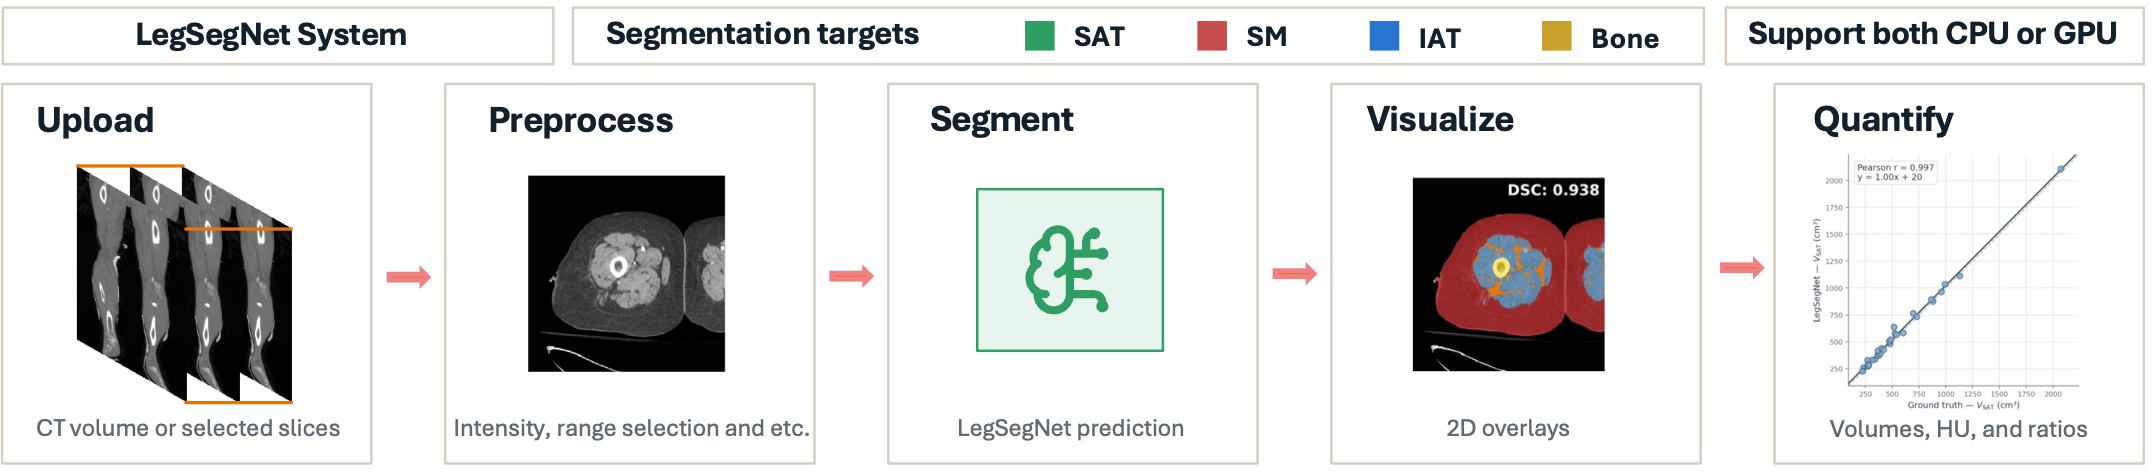
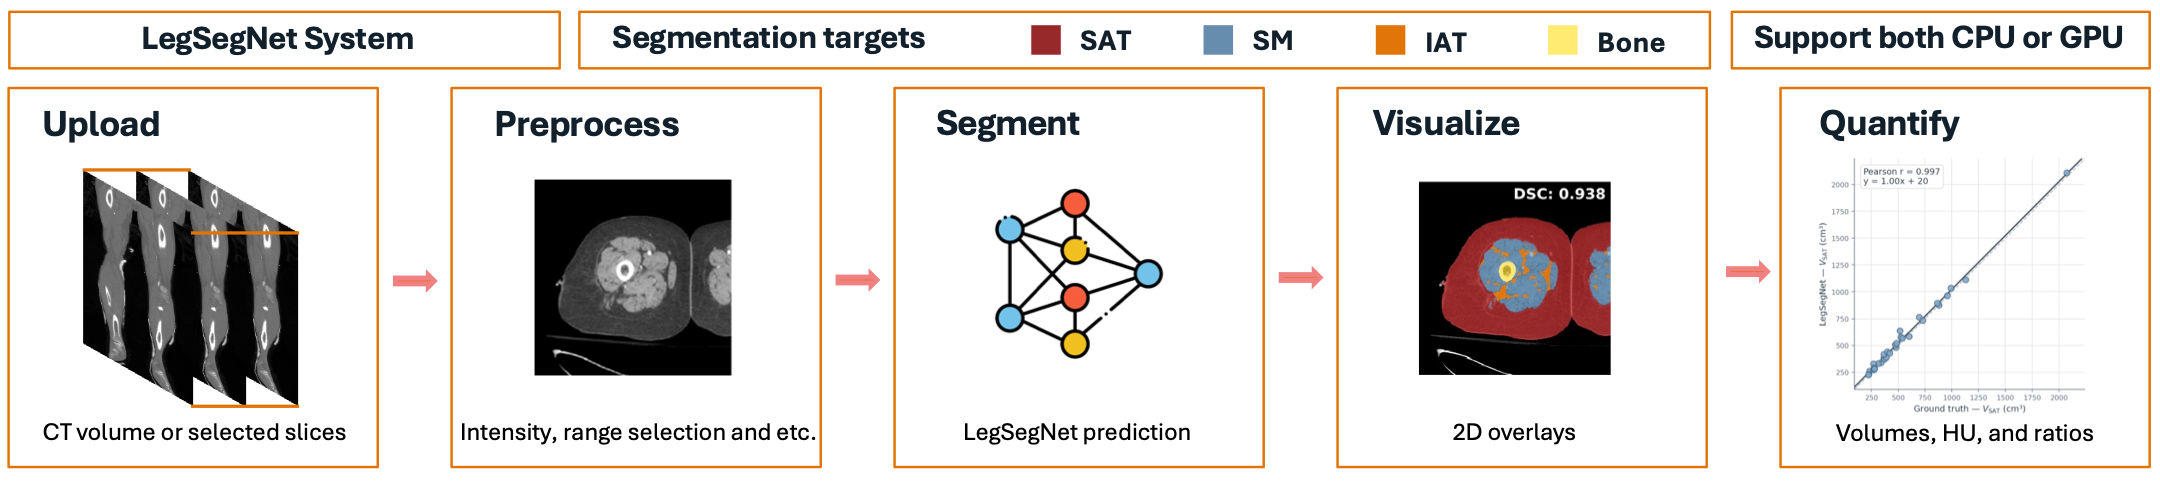
update

diff --git a/inference.py b/inference.py
@@ -24,51 +24,6 @@ CLASS_COLOR_DICT = {
 ## Input your checkpoint folder here.
 MODEL_FOLDER = "   "
 
-def hu_to_uint8(img_slice):
-    x = np.clip(img_slice.astype(np.float32), HU_LO, HU_HI)
-    x = (x - HU_LO) / (HU_HI - HU_LO)
-    x = x * 255.0
-    return x.astype(np.uint8)
-
-
-def color_overlay(img, mask, alpha=0.55):
-    img_3c = np.stack([img] * 3, axis=-1).astype(np.float32)
-    img_overlay = img_3c.copy()
-    for c, rgb in CLASS_COLOR_DICT.items():
-        sel = (mask == c)
-        if sel.any():
-            img_overlay[sel] = (1 - alpha) * img_3c[sel] + alpha * np.array(rgb)
-    return img_overlay.clip(0, 255).astype(np.uint8)
-
-
-def _patch_plans_check(plans_path):
-    plans = json.loads(plans_path.read_text())
-    changed = False
-    for cfg in plans.get("configurations", {}).values():
-        sp = cfg.get("spacing")
-        if sp and any(s is None for s in sp):
-            cfg["spacing"] = [999.0 if s is None else s for s in sp]
-            changed = True
-    if changed:
-        plans_path.write_text(json.dumps(plans, indent=4))
-
-
-def load_nifti_volume(nifti_path):
-    img = nib.load(str(nifti_path))
-
-    vol = img.get_fdata().astype(np.float32)
-    codes = nib.aff2axcodes(img.affine)
-    z_axis = next(i for i, c in enumerate(codes) if c in ("S", "I"))
-    vol = np.moveaxis(vol, z_axis, 0).astype(np.float32)
-    sp = np.linalg.norm(img.affine[:3, :3], axis=0)
-    spacing = (
-        float(sp[z_axis]),
-        float(sp[(z_axis + 1) % 3]),
-        float(sp[(z_axis + 2) % 3]),
-    )
-    return vol, codes, spacing
-
-
 class LegCTSegmenter:
     def __init__(
             self, 
@@ -187,7 +142,47 @@ class LegCTSegmenter:
                 progress_cb((i + 1) / Z_sel, desc=f"Slice {i+1}/{Z_sel}")
     
         return imgs, masks, hus
+    
+def hu_to_uint8(img_slice):
+    x = np.clip(img_slice.astype(np.float32), HU_LO, HU_HI)
+    x = (x - HU_LO) / (HU_HI - HU_LO)
+    x = x * 255.0
+    return x.astype(np.uint8)
 
+def color_overlay(img, mask, alpha=0.55):
+    img_3c = np.stack([img] * 3, axis=-1).astype(np.float32)
+    img_overlay = img_3c.copy()
+    for c, rgb in CLASS_COLOR_DICT.items():
+        sel = (mask == c)
+        if sel.any():
+            img_overlay[sel] = (1 - alpha) * img_3c[sel] + alpha * np.array(rgb)
+    return img_overlay.clip(0, 255).astype(np.uint8)
+
+def _patch_plans_check(plans_path):
+    plans = json.loads(plans_path.read_text())
+    changed = False
+    for cfg in plans.get("configurations", {}).values():
+        sp = cfg.get("spacing")
+        if sp and any(s is None for s in sp):
+            cfg["spacing"] = [999.0 if s is None else s for s in sp]
+            changed = True
+    if changed:
+        plans_path.write_text(json.dumps(plans, indent=4))
+
+def load_nifti_volume(nifti_path):
+    img = nib.load(str(nifti_path))
+
+    vol = img.get_fdata().astype(np.float32)
+    codes = nib.aff2axcodes(img.affine)
+    z_axis = next(i for i, c in enumerate(codes) if c in ("S", "I"))
+    vol = np.moveaxis(vol, z_axis, 0).astype(np.float32)
+    sp = np.linalg.norm(img.affine[:3, :3], axis=0)
+    spacing = (
+        float(sp[z_axis]),
+        float(sp[(z_axis + 1) % 3]),
+        float(sp[(z_axis + 2) % 3]),
+    )
+    return vol, codes, spacing
 
 def compute_body_composition(masks, ct_hu, sx_mm, sy_mm, dz_mm):
     area_mm2 = sx_mm * sy_mm
@@ -211,7 +206,6 @@ def compute_body_composition(masks, ct_hu, sx_mm, sy_mm, dz_mm):
     out["mu_Fat"]    = (sum_per[1] + sum_per[3]) / n_fat if n_fat else float("nan")
 
     return out
-
 
 def make_side_view(raw_vol, projection="max"):
     ## Normalize raw image

diff --git a/app.py b/app.py
@@ -47,7 +47,6 @@ def predict_png(img_slice):
     cv2.imwrite(str(mask_path), mask)
     return overlay, str(mask_path), summary
 
-
 def draw_marker_lines(img_slice, y_pos):
     out = img_slice.copy()
     line_color = (41, 128, 185)
@@ -61,13 +60,11 @@ def draw_marker_lines(img_slice, y_pos):
 
     return out
 
-
 def disp_to_z(y, state):
     z = int(round(y / state["z_to_y"]))
     if state["flipped"]:
         z = state["Z"] - 1 - z
     return max(0, min(state["Z"] - 1, z))
-
 
 def upload_nifti(file, state):
     state = {}
@@ -100,6 +97,11 @@ def upload_nifti(file, state):
     ## Return to match the Gradio pipeline
     return disp_rgb, [], info, "—", "—", state
 
+def reset_clicks(state):
+    if not state or state.get("side_disp_rgb") is None:
+        return None, [], "—", "—"
+    
+    return state["side_disp_rgb"].copy(), [], "—", "—"
 
 ## Clicks to draw line to select the range to predict
 def click_side(clicks, state, event: gr.SelectData):
@@ -117,14 +119,6 @@ def click_side(clicks, state, event: gr.SelectData):
     z_hi_text = str(zs[-1]) if len(zs) >= 2 else "—"
 
     return out, clicks, z_lo_text, z_hi_text
-
-
-def reset_clicks(state):
-    if not state or state.get("side_disp_rgb") is None:
-        return None, [], "—", "—"
-    
-    return state["side_disp_rgb"].copy(), [], "—", "—"
-
 
 def run_volume(clicks, state, progress=gr.Progress(track_tqdm=False)):
     if not state or state.get("vol_hu") is None:
@@ -223,7 +217,6 @@ def device_banner_html():
         </div>
         """
 
-
 def build_ui():
     with gr.Blocks(title="LegSegNet") as demo:
         gr.Markdown(
@@ -321,7 +314,6 @@ def build_ui():
             stop_btn.click(fn=None, cancels=[run_event])
             
     return demo
-
 
 if __name__ == "__main__":
     port = int(os.environ.get("GRADIO_SERVER_PORT", 7860))

diff --git a/README.md b/README.md
@@ -1,36 +1,32 @@
 # LegSegNet
 
-LegSegNet is a local Gradio app for lower-extremity CT tissue segmentation and body composition analysis. It uses a pretrained 2D nnU-Net model to segment four tissue compartments:
+LegSegNet is a Gradio app for lower extremity CT tissue segmentation and body composition analysis. 
+
+It uses a pretrained 2D nnU-Net model to segment four tissue compartments:
 
 - **SAT**: subcutaneous adipose tissue
 - **SM**: skeletal muscle
 - **IAT**: inter/intramuscular adipose tissue
 - **Bone**
 
-LegSegNet is designed for a practical workflow: upload a CT slice or NIfTI volume, run segmentation locally, and export masks and quantitative tissue measurements.
-
-## System Overview
-
-The full LegSegNet workflow takes lower extremity CT scans as input, predicts tissue masks, and produces visual and quantitative outputs for downstream analysis.
+LegSegNet is designed for a practical system: upload a CT slice or NIfTI volume, run segmentation, and export masks and quantitative tissue measurements.
 
 ![System overview PDF](assets/pipeline.png)
-
-## 3D Construction
-
-The 3D view shows volumetric reconstruction of LegSegNet predictions. The system overview summarizes how the app connects CT input, segmentation, visualization, and body composition measurements.
 
 ![3D segmentation view PDF](assets/3D_view.png)
 
 ## Run
 
-Install the dependencies and run:
+Install the packages and run:
 
 ```bash
 pip install -r requirements.txt
 python app.py
 ```
 
-The app automatically detects whether CUDA is available. With a GPU, it uses the full inference settings with mirroring and 0.5 tile overlap. On CPU, it disables mirroring and uses `tile_step_size=1.0`, which is faster but may slightly reduce accuracy.
+The app automatically detects whether CUDA is available. With a GPU, it uses the full inference settings with mirroring and 0.5 tile overlap (Can be customized for patient user). 
+
+On CPU, it disables mirroring and uses `tile_step_size=1.0`, which is faster but may slightly reduce accuracy.
 
 ## 2D Slice Inference
 
@@ -38,16 +34,16 @@ Use the **Single Slice (PNG)** tab for one 2D CT slice.
 
 The input PNG should be:
 
-1. HU-windowed to `[-200, 200]`
-2. linearly rescaled to `[0, 255]` as 8-bit grayscale
+1. Clip HU to `[-200, 200]`
+2. Scale to `[0, 255]` as 8-bit grayscale
 
-The app accepts different image sizes and resizes the slice to `256 x 256` before inference.
+LegSegNet accepts different image sizes, and resizes the slice to `256 x 256` before inference.
 
 Outputs:
 
-- colored segmentation overlay
-- downloadable mask PNG
-- per-class pixel counts
+- segmentation overlay
+- downloadable mask
+- tissue quantification
 
 ## 3D Volume Inference
 
@@ -55,12 +51,12 @@ Use the **3D Volume (NIfTI)** tab for `.nii` or `.nii.gz` CT volumes.
 
 The system:
 
-1. loads the volume and creates a coronal preview of the legs
-2. lets you click two points to choose the axial range
-3. runs slice-by-slice nnUNet inference on the selected range
-4. returns an overlay grid, body composition measurements, and a downloadable 3D mask NIfTI
+1. Loads the volume and creates a coronal preview of the legs
+2. Lets user click two points to choose the axial range
+3. Runs slice-by-slice nnUNet inference on the selected range
+4. Returns an overlay grid, body composition measurements, and a downloadable 3D mask NIfTI
 
-For volume inputs, LegSegNet reports tissue volume and mean CT attenuation for SAT, SM, IAT, and bone. It also computes derived measurements such as total fat volume, IAT-to-SAT ratio, and muscle-to-fat ratio.
+For volume inputs, LegSegNet reports tissue volume and mean CT attenuation for SAT, SM, IAT, and bone.
 
 ## Model Weights
 
